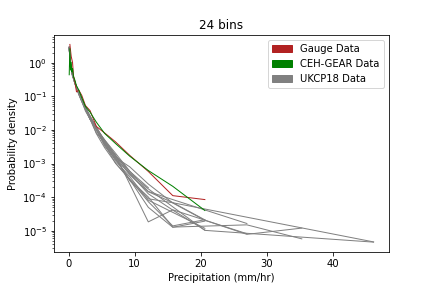
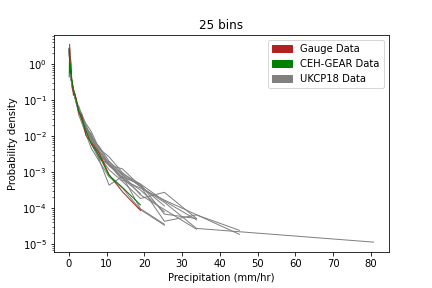
new figs

diff --git a/RainGaugeAnalysis/PlotPDFs.py b/RainGaugeAnalysis/PlotPDFs.py
@@ -19,7 +19,6 @@ from PDF_plotting_functions import *
 station_names = ['headingley_logger', 'eccup_logger', 'bramham_logger', 'farnley_hall_logger', 'knostrop_logger',
                'otley_s.wks_logger']
 
-
 ems = ['01', '04', '05', '06', '07', '08', '09', '10', '11', '12', '13', '15']
 
 #############################################
@@ -28,6 +27,10 @@ ems = ['01', '04', '05', '06', '07', '08', '09', '10', '11', '12', '13', '15']
 for overlapping_time_period in ['Overlapping', 'NotOverlapping']:
     for combined_em in ['Combined', 'NotCombined']:
         for jja_value in ['jja', 'all']:
+
+            # overlapping_time_period =  'NotOverlapping'
+            # combined_em = 'Combined'
+            # jja_value = 'jja'
                 
             # 'Not_Overlapping
             overlapping_time_periods= overlapping_time_period
@@ -35,9 +38,6 @@ for overlapping_time_period in ['Overlapping', 'NotOverlapping']:
             combined_ems = combined_em
             # 'jja', 'all'
             just_jja = jja_value
-            
-            # Create a dictionary to store the timeseries for all of the stations
-            precip_ts = {}
             
             # Loop through the stations, read in gauge and corresponding CEH-GEAR grid cell 
             # data, cut to include only the dates for which they overlap and plot PDFs
@@ -56,9 +56,9 @@ for overlapping_time_period in ['Overlapping', 'NotOverlapping']:
                 filename_gauge= root_dir + 'datadir/GaugeData/Newcastle/leeds-at-centre_csvs/{}.csv'.format(station_name)
                 df_gauge = pd.read_csv(filename_gauge, index_col=None, header=0)
                 # Create a formatted date column
-                df_gauge['Datetime'] = pd.to_datetime(df_gauge['Datetime'])
+                df_gauge['Datetime'] = pd.to_datetime(df_gauge['Datetime'], dayfirst = False)
                    
-                #### Read in UKCP18 data]
+                #### Read in UKCP18 data
                 em_csvs = {}
                 for em in ems:
                     filename_ukcp18= root_dir + 'Outputs/TimeSeries/UKCP18/Gauge_GridCells/TimeSeries_csv/{}_{}.csv'.format(station_name, em)
@@ -66,41 +66,40 @@ for overlapping_time_period in ['Overlapping', 'NotOverlapping']:
                     # Create a formatted date column
                     em_csvs[em] = df_ukcp18
                 
-                #### Cut gauge and CEH-GEAR to only include the overlapping time period
-                # Find earliest and latest datetime for which there is data in either gauge or CEH-GEAR
-                earliesttime = df_gauge['Datetime'].min() if df_gauge['Datetime'].min() > df_cehgear['Datetime'].min() else df_cehgear['Datetime'].min()
-                latesttime = df_gauge['Datetime'].max() if df_gauge['Datetime'].max() < df_cehgear['Datetime'].max() else df_cehgear['Datetime'].max()
-                # Override with latestime from UKCP18       
-                latesttime = pd.to_datetime(df_ukcp18['Date_formatted'].max(), dayfirst = False)
-                
-                # Filter to only be between these times
+                ##### If overlapping_time_period == 'Overlapping' then 
                 if overlapping_time_period == 'Overlapping':
+                    # Cut gauge and CEH-GEAR to only include the overlapping time period
+                    # Find earliest and latest datetime for which there is data in either gauge or CEH-GEAR
+                    earliesttime = df_gauge['Datetime'].min() if df_gauge['Datetime'].min() > df_cehgear['Datetime'].min() else df_cehgear['Datetime'].min()
+                    latesttime = df_gauge['Datetime'].max() if df_gauge['Datetime'].max() < df_cehgear['Datetime'].max() else df_cehgear['Datetime'].max()
+                    # Override with latestime from UKCP18       
+                    latesttime = pd.to_datetime(df_ukcp18['Date_formatted'].max(), dayfirst = False)
+                    
+                    # Filter to only be between these times
                     df_cehgear = df_cehgear[(df_cehgear['Datetime'] > earliesttime)& (df_cehgear['Datetime']< latesttime)]
                     df_gauge = df_gauge[(df_gauge['Datetime'] > earliesttime)& (df_gauge['Datetime']< latesttime)]
                     
-                # Go through each ensemble member and filter
-                # And add to dictionary    
-                for em in ems:
-                    df_ukcp18 = em_csvs[em]
-                    if overlapping_time_period == 'Overlapping':
+                    # Check if gauge and CEH-GEAR data set are the same length
+                    # if len(df_gauge) == len(df_cehgear):
+                        #     print("Same length")
+                    # UKCP18 will not be same length as it uses 12 months * 30 days = 360 days total
+                    
+                    # Go through each ensemble member and filter
+                    # And add to dictionary    
+                    for em in ems:
+                        df_ukcp18 = em_csvs[em]
                         df_ukcp18 = df_ukcp18[78480:] # manually calculated as index of dates bigger than earliest date
                         em_csvs[em] = df_ukcp18
                 
-                # Cut to JJA
+                ##### If just_jja == 'jja' then keep only data in 6,7,8th months
                 if just_jja == 'jja':
                     df_gauge = df_gauge[df_gauge['Datetime'].dt.month.isin([6,7,8])]
                     df_cehgear= df_cehgear[df_cehgear['Datetime'].dt.month.isin([6,7,8])]
                     for em in ems:
                         df_ukcp18 = em_csvs[em]
-                        to_drop = ['-06-', '-07-', '-08-']
+                        to_drop = ['-01-', '-02-', '-03-', '-04-', '-05-', '-09-', '-10-', '-11-', '-12-']
                         df_ukcp18 = df_ukcp18[~df_ukcp18['Date_formatted'].str.contains('|'.join(to_drop))]
                         em_csvs[em] = df_ukcp18
-                
-                
-                # Check if gauge and CEH-GEAR data set are the same length
-                if len(df_gauge) == len(df_cehgear):
-                    print("Same length")
-                # UKCP18 will not be same length as it uses 12 months * 30 days = 360 days total
                 
                 #### Remove -999 values and na values
                 print('NA values in Gauge: ' + str(len(df_gauge[df_gauge['Precipitation (mm/hr)'] == -999])))
@@ -109,20 +108,16 @@ for overlapping_time_period in ['Overlapping', 'NotOverlapping']:
                 df_gauge = df_gauge[df_gauge['Precipitation (mm/hr)'] != -999]
                 df_cehgear.dropna(inplace = True)
                     
-                # Join all ems together
+                # Add ems to the gauge_ts dictionary
+                # If combined_ems = 'Combined' then add only one where they're all combined
                 for em in ems:
                     df_ukcp18 = em_csvs[em]
                     if combined_ems == 'Combined':
                         joined_ems = pd.concat(em_csvs.values(),ignore_index = True)
                         gauge_ts[station_name + '_UKCP18Data'] = joined_ems
                     elif combined_ems == 'NotCombined':
-                        precip_ts[station_name + '_UKCP18Data' + em] = df_ukcp18
                         gauge_ts[station_name + '_UKCP18Data' + em] = df_ukcp18
-                
-                # Add to dictionary for all stations
-                precip_ts[station_name + '_GaugeData'] = df_gauge
-                precip_ts[station_name + '_GridData'] = df_cehgear
-                
+
                 # Add to dictionary for this station
                 gauge_ts[station_name + '_GaugeData'] = df_gauge
                 gauge_ts[station_name + '_GridData'] = df_cehgear
@@ -160,12 +155,8 @@ for overlapping_time_period in ['Overlapping', 'NotOverlapping']:
                                                   patches, True, xlim, x_axis, y_axis) 
                 
                 # Save
-                plt.savefig("Scripts/UKCP18/RainGaugeAnalysis/Validating_CEH-GEAR/Figs/PDF_GaugevsGridCell/{}_{}_{}_{}.png".format(station_name, just_jja, overlapping_time_period, combined_ems))
+                plt.savefig("Scripts/UKCP18/RainGaugeAnalysis/Figs/PDF_GaugevsGridCell/{}_{}_{}_{}.png".format(station_name, just_jja, overlapping_time_period, combined_ems))
                 
-                
-        
-    
-
 
     #########################################################################
     # Further analysis
